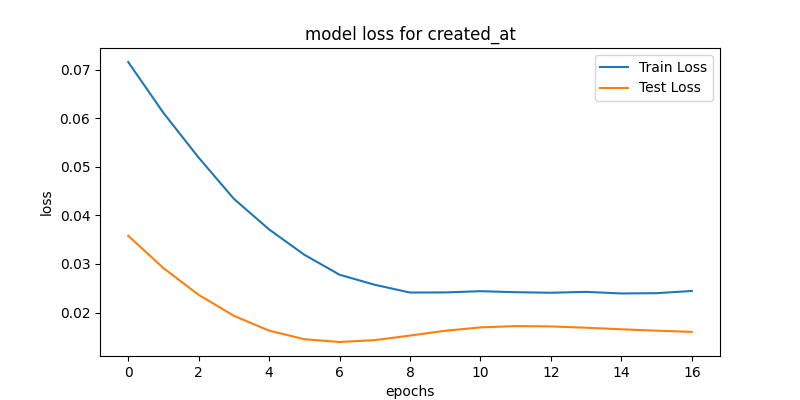
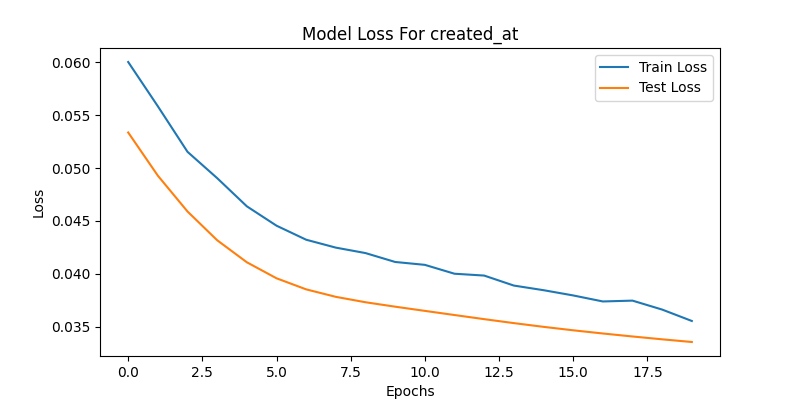
updated code

diff --git a/app.py b/app.py
@@ -116,7 +116,7 @@ def forecast():
 
     # create image Urls
     BASE_IMAGE_PATH = os.environ.get(
-        'BASE_IMAGE_PATH', 'https://storage.cloud.google.com/lstm-forecasting/')
+        'BASE_IMAGE_PATH', 'YOUR BASE_IMAGE_PATH')
     LOCAL_IMAGE_PATH = "static/images/"
 
     MODEL_LOSS_IMAGE_NAME = "model_loss_" + type + ".png"
@@ -130,16 +130,16 @@ def forecast():
 
     # Bucket Name
     BUCKET_NAME = os.environ.get(
-        'BUCKET_NAME', 'lstm-forecasting')
+        'BUCKET_NAME', 'Your BUCKET_NAME')
 
     # model.summary()
 
     plt.figure(figsize=(8, 4))
     plt.plot(history.history['loss'], label='Train Loss')
     plt.plot(history.history['val_loss'], label='Test Loss')
-    plt.title('model loss for ' + type)
-    plt.ylabel('loss')
-    plt.xlabel('epochs')
+    plt.title('Model Loss For ' + type)
+    plt.ylabel('Loss')
+    plt.xlabel('Epochs')
     plt.legend(loc='upper right')
     plt.savefig(LOCAL_IMAGE_PATH + MODEL_LOSS_IMAGE_NAME)
 
@@ -154,8 +154,8 @@ def forecast():
     axs.plot(np.arange(len(Y_train), len(Y_train) + len(Y_test)),
              y_pred, 'r', label="prediction")
     axs.legend()
-    axs.set_title('LSTM generated data for ' + type)
-    axs.set_xlabel('Time steps')
+    axs.set_title('LSTM Generated Data For ' + type)
+    axs.set_xlabel('Time Steps')
     axs.set_ylabel('Issues')
     plt.savefig(LOCAL_IMAGE_PATH + LSTM_GENERATED_IMAGE_NAME)
 
@@ -166,7 +166,7 @@ def forecast():
     axs.xaxis.set_major_locator(locator)
     axs.xaxis.set_major_formatter(mdates.AutoDateFormatter(locator))
     axs.legend()
-    axs.set_title('All Issues data')
+    axs.set_title('All Issues Data')
     axs.set_xlabel('Date')
     axs.set_ylabel('Issues')
     plt.savefig(LOCAL_IMAGE_PATH + ALL_ISSUES_DATA_IMAGE_NAME)
